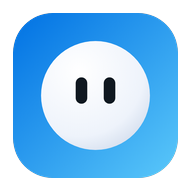
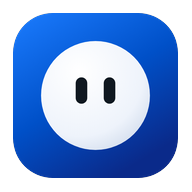
Degradê oficial do site aplicado em todo o sistema e nos ícones
Claude-Session: https://claude.ai/code/session_016C7VowmAPoLn4t7SCgqGfB

diff --git a/frontend/src/apple-theme.css b/frontend/src/apple-theme.css
@@ -32,7 +32,7 @@
   --radius: 14px;
   --radius-lg: 22px;
 
-  --gradient-brand: linear-gradient(180deg, #1a82f7 0%, #0071e3 100%);
+  --gradient-brand: linear-gradient(160deg,#1b7cff,#0050c8 55%,#0a2a8a);
   --glow-brand: 0 0 0 4px rgba(0, 113, 227, 0.18);
 
   /* Liquid Glass */
@@ -561,9 +561,9 @@ input, select, textarea { font-family: var(--font-body); }
   --helora-g1: #0071e3;
   --helora-g2: #5ac8fa;
   --helora-g3: #34c759;
-  --helora-gradient: linear-gradient(90deg, #0071e3 0%, #5ac8fa 55%, #34c759 100%);
+  --helora-gradient: linear-gradient(160deg,#1b7cff,#0050c8 55%,#0a2a8a);
   --helora-gradient-soft: linear-gradient(90deg, rgba(0,113,227,.12), rgba(90,200,250,.12), rgba(52,199,89,.12));
-  --helora-bubble: linear-gradient(135deg, #0071e3 0%, #2b8ff0 100%);
+  --helora-bubble: linear-gradient(160deg,#1b7cff,#0050c8 55%,#0a2a8a);
 }
 .nav-sidebar-brand { position: relative; padding-bottom: 14px !important; margin-bottom: 12px !important; }
 .nav-sidebar-brand::after {
@@ -842,7 +842,7 @@ input, select, textarea { font-family: var(--font-body); }
 .login2-foot { margin-top: 28px; font-size: 12px; color: #86868b; }
 .login2-right {
   position: relative; overflow: hidden; display: flex; align-items: center; justify-content: center; padding: 48px;
-  background: linear-gradient(135deg, #0062c4 0%, #0071e3 35%, #3aa8f2 70%, #34c759 130%); color: #fff;
+  background: linear-gradient(160deg,#1b7cff,#0050c8 55%,#0a2a8a); color: #fff;
 }
 .login2-glow { position: absolute; border-radius: 50%; filter: blur(60px); opacity: .55; }
 .login2-glow.g1 { width: 420px; height: 420px; background: #5ac8fa; top: -120px; right: -100px; }
@@ -915,7 +915,7 @@ input, select, textarea { font-family: var(--font-body); }
 /* Relatórios / Financeiro / Planos / Termos */
 .rep-bars { display: flex; align-items: flex-end; gap: 4px; height: 160px; padding-top: 8px; overflow-x: auto; }
 .rep-bar { flex: 1 0 14px; height: 100%; display: flex; flex-direction: column; justify-content: flex-end; align-items: center; gap: 4px; }
-.rep-bar span { width: 100%; min-height: 2px; border-radius: 6px 6px 2px 2px; background: linear-gradient(180deg, #5ac8fa, #0071e3); }
+.rep-bar span { width: 100%; min-height: 2px; border-radius: 6px 6px 2px 2px; background: linear-gradient(160deg,#1b7cff,#0050c8 55%,#0a2a8a); }
 .rep-bar small { font-size: 10px; color: #86868b; }
 .rep-table-wrap { overflow-x: auto; margin-top: 10px; }
 .rep-table { width: 100%; border-collapse: collapse; font-size: 13.5px; }
@@ -1070,7 +1070,7 @@ input, select, textarea { font-family: var(--font-body); }
 .ap-list-row + .ap-list-row::before { content: ""; position: absolute; top: 0; left: 70px; right: 0; height: .5px; background: rgba(0,0,0,.08); }
 .ap-list-row:hover { background: #fafafc; }
 .ap-avatar { width: 40px; height: 40px; border-radius: 11px; display: inline-flex; align-items: center; justify-content: center; font-weight: 700; font-size: 15px; color: #fff; flex: 0 0 auto;
-  background: linear-gradient(135deg, #0071e3, #5ac8fa); }
+  background: linear-gradient(160deg,#1b7cff,#0050c8 55%,#0a2a8a); }
 .ap-list-main { flex: 1; min-width: 0; }
 .ap-list-main strong { display: block; font-size: 15px; color: #1d1d1f; font-weight: 600; white-space: nowrap; overflow: hidden; text-overflow: ellipsis; }
 .ap-list-main span { display: block; font-size: 13px; color: #86868b; margin-top: 2px; white-space: nowrap; overflow: hidden; text-overflow: ellipsis; }
@@ -1723,7 +1723,7 @@ img, video { max-width: 100%; }
 .lp-owner strong { font-size: 13.5px; color: var(--text-main); }
 .lp-owner small { font-size: 11.5px; }
 .lp-owner select { position: absolute; inset: 0; opacity: 0; cursor: pointer; }
-.lp-av { width: 32px; height: 32px; border-radius: 50%; background: linear-gradient(135deg,#5ac8fa,#0071e3); color: #fff !important; display: grid !important; place-items: center; font-size: 12px; font-weight: 700; }
+.lp-av { width: 32px; height: 32px; border-radius: 50%; background: linear-gradient(160deg,#1b7cff,#0050c8 55%,#0a2a8a); color: #fff !important; display: grid !important; place-items: center; font-size: 12px; font-weight: 700; }
 .lp-btn { display: inline-flex; align-items: center; gap: 6px; height: 36px; padding: 0 16px; border-radius: 10px; border: 0; font: inherit; font-size: 14px; font-weight: 600; cursor: pointer; background: rgba(118,118,128,.12); color: var(--text-main); }
 .lp-btn.won { background: #28a745; color: #fff; }
 .lp-btn.won:hover { background: #218838; }
@@ -2030,7 +2030,7 @@ img, video { max-width: 100%; }
 .crm-side-list { display: flex; flex-direction: column; gap: 8px; margin-top: 14px; }
 .crm-side-row { display: flex; align-items: center; gap: 12px; padding: 12px 14px; background: #fff; border-radius: 16px; box-shadow: 0 0 0 .5px rgba(0,0,0,.06), 0 2px 8px rgba(0,0,0,.04); cursor: pointer; }
 .crm-side-row:hover { box-shadow: 0 0 0 .5px rgba(0,113,227,.3), 0 4px 14px rgba(0,0,0,.06); }
-.crm-side-av { width: 36px; height: 36px; border-radius: 50%; display: grid; place-items: center; background: linear-gradient(135deg, #0071e3, #5ac8fa); color: #fff; font-size: 13px; font-weight: 700; flex-shrink: 0; }
+.crm-side-av { width: 36px; height: 36px; border-radius: 50%; display: grid; place-items: center; background: linear-gradient(160deg,#1b7cff,#0050c8 55%,#0a2a8a); color: #fff; font-size: 13px; font-weight: 700; flex-shrink: 0; }
 .crm-side-main { flex: 1; min-width: 0; display: flex; flex-direction: column; }
 .crm-side-main strong { font-size: 14.5px; }
 .crm-side-main span { font-size: 12.5px; color: #6e6e73; overflow: hidden; text-overflow: ellipsis; white-space: nowrap; }
@@ -2080,7 +2080,7 @@ button.crm-doc-tag.ok { cursor: pointer; }
 .au-rule { background: #fff; border-radius: 18px; box-shadow: 0 0 0 .5px rgba(0,0,0,.07), 0 2px 10px rgba(0,0,0,.04); overflow: hidden; }
 .au-rule.off { opacity: .6; }
 .au-head { display: flex; align-items: center; gap: 12px; padding: 14px 16px; cursor: pointer; }
-.au-ico { width: 34px; height: 34px; border-radius: 11px; display: grid; place-items: center; background: linear-gradient(135deg, #0071e3, #5ac8fa); color: #fff; flex-shrink: 0; }
+.au-ico { width: 34px; height: 34px; border-radius: 11px; display: grid; place-items: center; background: linear-gradient(160deg,#1b7cff,#0050c8 55%,#0a2a8a); color: #fff; flex-shrink: 0; }
 .au-title { flex: 1; min-width: 0; display: flex; flex-direction: column; }
 .au-title strong { font-size: 15px; }
 .au-title small { font-size: 12.5px; color: #6e6e73; overflow: hidden; text-overflow: ellipsis; white-space: nowrap; }
@@ -2113,7 +2113,7 @@ button.crm-doc-tag.ok { cursor: pointer; }
 /* V9 · Dashboard moderno (layout em blocos, cores do Helora) */
 .db-bento { display: grid; grid-template-columns: 1fr 1fr 1fr 1.6fr; gap: 14px; margin: 14px 0; }
 .db-hero { border-radius: 22px; padding: 18px; display: flex; flex-direction: column; gap: 6px; min-height: 140px; justify-content: space-between; }
-.db-hero.blue { background: linear-gradient(135deg, #0071e3, #5ac8fa); color: #fff; box-shadow: 0 10px 30px rgba(0,113,227,.25); }
+.db-hero.blue { background: linear-gradient(160deg,#1b7cff,#0050c8 55%,#0a2a8a); color: #fff; box-shadow: 0 10px 30px rgba(0,113,227,.25); }
 .db-hero.light { background: linear-gradient(135deg, #e8f5ec, #d6f5e0); color: #145c2c; }
 .db-hero-top { display: inline-flex; align-items: center; gap: 6px; font-size: 13px; font-weight: 600; opacity: .9; }
 .db-hero-val { font-size: 38px; font-weight: 800; letter-spacing: -.03em; line-height: 1; }
@@ -2136,11 +2136,11 @@ button.crm-doc-tag.ok { cursor: pointer; }
 .db-ch-head { display: flex; align-items: center; gap: 8px; font-size: 14px; }
 .db-ch-head strong { margin-left: auto; }
 .db-ch-bar { height: 8px; border-radius: 999px; background: rgba(118,118,128,.12); overflow: hidden; margin-top: 6px; }
-.db-ch-bar span { display: block; height: 100%; border-radius: 999px; background: linear-gradient(90deg, #0071e3, #5ac8fa); }
+.db-ch-bar span { display: block; height: 100%; border-radius: 999px; background: linear-gradient(160deg,#1b7cff,#0050c8 55%,#0a2a8a); }
 .db-table { width: 100%; border-collapse: collapse; font-size: 13.5px; }
 .db-table th { text-align: left; font-size: 11.5px; font-weight: 600; color: #8e8e93; text-transform: uppercase; letter-spacing: .04em; padding: 6px 8px; }
 .db-table td { padding: 9px 8px; border-top: .5px solid rgba(0,0,0,.06); vertical-align: middle; }
-.db-av { display: inline-grid; place-items: center; width: 26px; height: 26px; border-radius: 50%; background: linear-gradient(135deg, #0071e3, #5ac8fa); color: #fff; font-size: 10.5px; font-weight: 700; margin-right: 8px; vertical-align: middle; }
+.db-av { display: inline-grid; place-items: center; width: 26px; height: 26px; border-radius: 50%; background: linear-gradient(160deg,#1b7cff,#0050c8 55%,#0a2a8a); color: #fff; font-size: 10.5px; font-weight: 700; margin-right: 8px; vertical-align: middle; }
 @media (max-width: 1100px) { .db-bento { grid-template-columns: 1fr 1fr; } .db-minis { grid-template-columns: repeat(3, minmax(0, 1fr)); } }
 @media (max-width: 720px) { .db-grid2 { grid-template-columns: 1fr; } .db-minis { grid-template-columns: repeat(2, minmax(0, 1fr)); } .db-hero-val { font-size: 30px; } }
 
@@ -2259,7 +2259,7 @@ a.lp-icon { display: inline-grid; place-items: center; color: inherit; text-deco
 .cx-hero { display: flex; gap: 14px; align-items: center; background: #fff; border-radius: 22px; padding: 18px 20px; box-shadow: 0 0 0 .5px rgba(0,0,0,.06), 0 4px 18px rgba(0,0,0,.05); margin-bottom: 14px; }
 .cx-hero h2 { margin: 0 0 2px; font-size: 20px; letter-spacing: -.02em; }
 .cx-hero p { margin: 0; color: #6e6e73; font-size: 14px; }
-.cx-hero-ico { width: 48px; height: 48px; border-radius: 15px; display: grid; place-items: center; color: #fff; background: linear-gradient(135deg, #0071e3, #5ac8fa); flex-shrink: 0; }
+.cx-hero-ico { width: 48px; height: 48px; border-radius: 15px; display: grid; place-items: center; color: #fff; background: linear-gradient(160deg,#1b7cff,#0050c8 55%,#0a2a8a); flex-shrink: 0; }
 .cx-active { display: inline-flex; gap: 6px; font-size: 13px; color: #1d1d1f; background: rgba(52,199,89,.12); padding: 6px 12px; border-radius: 999px; margin-bottom: 6px; }
 .cx-h3 { font-size: 13px; font-weight: 700; color: #6e6e73; text-transform: uppercase; letter-spacing: .05em; margin: 18px 0 10px; }
 .cx-grid { display: grid; grid-template-columns: repeat(auto-fill, minmax(300px, 1fr)); gap: 14px; }
@@ -2303,7 +2303,7 @@ a.lp-icon { display: inline-grid; place-items: center; color: inherit; text-deco
 .ih-title h2 { margin: 0; font-size: 21px; letter-spacing: -.02em; }
 .ih-title p { margin: 2px 0 0; color: #6e6e73; font-size: 14px; }
 .ih-orb { width: 44px; height: 44px; border-radius: 50%; display: grid; place-items: center; color: #fff; flex-shrink: 0;
-  background: radial-gradient(circle at 30% 25%, #9be7ff, transparent 45%), linear-gradient(135deg, #0071e3, #5ac8fa 60%, #34c759); box-shadow: 0 6px 18px rgba(0,113,227,.3); }
+  background: radial-gradient(circle at 30% 25%, #9be7ff, transparent 45%), linear-gradient(160deg,#1b7cff,#0050c8 55%,#0a2a8a); box-shadow: 0 6px 18px rgba(0,113,227,.3); }
 .ih-orb.big { width: 64px; height: 64px; }
 .ih-tabs { display: inline-flex; background: rgba(118,118,128,.1); border-radius: 12px; padding: 3px; gap: 2px; }
 .ih-tabs button { border: 0; background: transparent; padding: 7px 14px; border-radius: 9px; font: inherit; font-size: 14px; font-weight: 600; color: #3a3a3c; display: inline-flex; gap: 6px; align-items: center; cursor: pointer; }
@@ -2330,7 +2330,7 @@ a.lp-icon { display: inline-grid; place-items: center; color: inherit; text-deco
 .ih-ideas button:hover { background: #eef5ff; }
 .ih-msg { display: flex; gap: 10px; align-items: flex-start; }
 .ih-msg.user { justify-content: flex-end; }
-.ih-av { width: 28px; height: 28px; border-radius: 50%; display: grid; place-items: center; color: #fff; background: linear-gradient(135deg, #0071e3, #5ac8fa); flex-shrink: 0; }
+.ih-av { width: 28px; height: 28px; border-radius: 50%; display: grid; place-items: center; color: #fff; background: linear-gradient(160deg,#1b7cff,#0050c8 55%,#0a2a8a); flex-shrink: 0; }
 .ih-bubble { max-width: min(760px, 85%); }
 .ih-msg.user .ih-bubble { background: #0071e3; color: #fff; padding: 10px 14px; border-radius: 18px 18px 4px 18px; font-size: 14.5px; }
 .ih-msg.assistant .ih-bubble { background: #f5f6f8; padding: 12px 15px; border-radius: 4px 18px 18px 18px; font-size: 14.5px; line-height: 1.55; }
@@ -2364,7 +2364,7 @@ a.lp-icon { display: inline-grid; place-items: center; color: inherit; text-deco
 .ih-ch-name strong { display: block; font-size: 14px; }
 .ih-ch-name small { color: #8e8e93; font-size: 12px; }
 .ih-ch select { border: 0; background: rgba(118,118,128,.1); border-radius: 10px; padding: 8px 10px; font: inherit; font-size: 13.5px; max-width: 260px; }
-.ih-live { font-size: 11.5px; font-weight: 700; color: #fff; background: linear-gradient(90deg, #0071e3, #34c759); padding: 4px 10px; border-radius: 999px; white-space: nowrap; }
+.ih-live { font-size: 11.5px; font-weight: 700; color: #fff; background: linear-gradient(160deg,#1b7cff,#0050c8 55%,#0a2a8a); padding: 4px 10px; border-radius: 999px; white-space: nowrap; }
 .ih-att-grid { display: grid; grid-template-columns: repeat(auto-fill, minmax(240px, 1fr)); gap: 12px; }
 .ih-att-card { border-radius: 16px; padding: 14px; background: #f8f9fb; cursor: pointer; display: flex; flex-direction: column; gap: 6px; transition: transform .15s, box-shadow .15s; }
 .ih-att-card:hover { transform: translateY(-2px); box-shadow: 0 8px 22px rgba(0,0,0,.07); background: #fff; }
@@ -2451,7 +2451,7 @@ a.lp-icon { display: inline-grid; place-items: center; color: inherit; text-deco
 .bubble-buttons-foot { color: var(--text-muted, #8e8e93); font-size: 11px; }
 /* ===================== V14 · Tela inicial ===================== */
 .home2 { max-width: 1180px; margin: 0 auto; }
-.home2-hero { display: flex; align-items: center; gap: 16px; padding: 22px 24px; border-radius: 18px; background: linear-gradient(120deg, #0a2a5e, #0071e3 70%, #3a9bff); color: #fff; box-shadow: 0 10px 30px rgba(0,60,140,.18); }
+.home2-hero { display: flex; align-items: center; gap: 16px; padding: 22px 24px; border-radius: 18px; background: linear-gradient(160deg,#1b7cff,#0050c8 55%,#0a2a8a); color: #fff; box-shadow: 0 10px 30px rgba(0,60,140,.18); }
 .home2-hero h2 { margin: 0; font-size: 22px; color: #fff; }
 .home2-hero p { margin: 2px 0 0; opacity: .85; font-size: 13px; }
 .home2-hero .avatar-circle { background: rgba(255,255,255,.2); color: #fff; border: 2px solid rgba(255,255,255,.35); }
@@ -2922,7 +2922,7 @@ a.ih-src:hover { border-color: #0071e3; background: rgba(0,113,227,.05); }
 .qr-pop { flex-shrink: 0 !important; min-height: 120px; max-height: 360px !important; margin: 4px 0 10px !important; }
 .qr-item { padding: 10px 14px !important; gap: 4px !important; }
 .qr-item span { -webkit-line-clamp: 4 !important; font-size: 13px !important; line-height: 1.4; }
-.avatar-circle.av-group { background: linear-gradient(135deg, #5ac8fa, #0071e3) !important; color: #fff; display: grid; place-items: center; }
+.avatar-circle.av-group { background: linear-gradient(160deg,#1b7cff,#0050c8 55%,#0a2a8a) !important; color: #fff; display: grid; place-items: center; }
 .tb-newcol { flex: 0 0 220px; align-self: flex-start; display: inline-flex; align-items: center; justify-content: center; gap: 6px; padding: 14px; border-radius: 14px; border: 1.5px dashed rgba(0,113,227,.4); background: rgba(0,113,227,.03); color: #0071e3; font-weight: 600; font-size: 14px; cursor: pointer; font-family: inherit; }
 .tb-col-tools { margin-left: auto; display: inline-flex; gap: 2px; opacity: 0; transition: opacity .15s; }
 .tb-col:hover .tb-col-tools { opacity: 1; }
@@ -2984,7 +2984,7 @@ a.ih-src:hover { border-color: #0071e3; background: rgba(0,113,227,.05); }
 .ih-usage-t span { font-size: 14px; color: #3a3a3c; margin-right: auto; }
 .ih-usage small { color: #86868b; font-size: 12.5px; }
 .ih-usage-bar { height: 8px; border-radius: 99px; background: rgba(0,0,0,.06); overflow: hidden; }
-.ih-usage-bar i { display: block; height: 100%; border-radius: 99px; background: linear-gradient(90deg, #0071e3, #5ac8fa); transition: width .4s; }
+.ih-usage-bar i { display: block; height: 100%; border-radius: 99px; background: linear-gradient(160deg,#1b7cff,#0050c8 55%,#0a2a8a); transition: width .4s; }
 .ih-usage.warn .ih-usage-bar i { background: linear-gradient(90deg, #ff9500, #ffcc00); }
 .ih-usage.bad .ih-usage-bar i { background: #ff3b30; }
 .ih-usage-msg { font-size: 13px; color: #c93400; background: rgba(255,59,48,.08); padding: 8px 10px; border-radius: 10px; }
@@ -3048,7 +3048,7 @@ a.ih-src:hover { border-color: #0071e3; background: rgba(0,113,227,.05); }
 .help-n{width:26px;height:26px;border-radius:8px;background:#eaf3ff;color:#0071e3;display:grid;place-items:center;font-size:13px;font-weight:700;flex:none}
 .help-steps{list-style:none;padding:0;margin:0;display:flex;flex-direction:column;gap:10px}
 .help-steps li{display:flex;gap:10px;font-size:14px;line-height:1.4;background:#fff;border-radius:12px;padding:12px;border:1px solid #eee}
-.help-steps li span{width:24px;height:24px;border-radius:50%;background:linear-gradient(135deg,#0071e3,#3d8bf0);color:#fff;display:grid;place-items:center;font-size:12px;font-weight:700;flex:none}
+.help-steps li span{width:24px;height:24px;border-radius:50%;background:linear-gradient(160deg,#1b7cff,#0050c8 55%,#0a2a8a);color:#fff;display:grid;place-items:center;font-size:12px;font-weight:700;flex:none}
 .help-tip{background:#fff8e6;border-radius:12px;padding:12px;font-size:13px;color:#7a5600}
 .help-chat{margin:0 14px 14px;display:flex;align-items:center;justify-content:center;gap:8px;padding:12px;border:0;border-radius:14px;background:#0071e3;color:#fff;font-weight:600;font-size:14px;cursor:pointer}
 
@@ -3207,7 +3207,7 @@ a.ih-src:hover { border-color: #0071e3; background: rgba(0,113,227,.05); }
 .sp-d{font-size:12px;color:#8e8e93}.sp-d.up{color:#1f9d4a}.sp-d.down{color:#d70015}
 .sp-grid{display:grid;grid-template-columns:1fr 1fr;gap:14px}.sp-grid span{display:block;font-size:12px;color:#8e8e93}
 .sp-bars{display:flex;align-items:flex-end;gap:2px;height:110px;margin-top:16px;border-bottom:1px solid #e5e5ea}
-.sp-bars i{flex:1;min-height:2px;border-radius:3px 3px 0 0;background:linear-gradient(#3d8bf0,#0071e3)}
+.sp-bars i{flex:1;min-height:2px;border-radius:3px 3px 0 0;background:linear-gradient(160deg,#1b7cff,#0050c8 55%,#0a2a8a)}
 .sp-foot{grid-column:1/-1;font-size:12px;color:#8e8e93;margin:0}
 @media (max-width:900px){.sp{grid-template-columns:1fr}}
 
@@ -3402,10 +3402,10 @@ a.ih-src:hover { border-color: #0071e3; background: rgba(0,113,227,.05); }
 .pl-wrap{position:absolute;inset:0;z-index:60;display:grid;place-items:center;background:rgba(245,247,251,.55);backdrop-filter:blur(8px);-webkit-backdrop-filter:blur(8px);animation:plIn .18s ease;min-height:60vh}
 .pl-box{display:flex;flex-direction:column;align-items:center;gap:14px;position:sticky;top:40vh}
 .pl-ring{width:54px;height:54px;border-radius:50%;background:conic-gradient(from 0deg,rgba(0,113,227,0) 0deg,#3d8bf0 140deg,#0071e3 260deg,#0050b0 360deg);-webkit-mask:radial-gradient(farthest-side,transparent calc(100% - 6px),#000 calc(100% - 5px));mask:radial-gradient(farthest-side,transparent calc(100% - 6px),#000 calc(100% - 5px));animation:plSpin .8s linear infinite;filter:drop-shadow(0 6px 14px rgba(0,113,227,.35))}
-.pl-t{font-size:13px;font-weight:700;letter-spacing:.14em;text-transform:uppercase;background:linear-gradient(90deg,#0050b0,#3d8bf0);-webkit-background-clip:text;background-clip:text;color:transparent}
+.pl-t{font-size:13px;font-weight:700;letter-spacing:.14em;text-transform:uppercase;background:linear-gradient(160deg,#1b7cff,#0050c8 55%,#0a2a8a);-webkit-background-clip:text;background-clip:text;color:transparent}
 @keyframes plSpin{to{transform:rotate(360deg)}}
 @keyframes plIn{from{opacity:0}to{opacity:1}}
-.pl-bar{position:fixed;top:0;left:0;height:3px;z-index:3000;background:linear-gradient(90deg,#0050b0,#0071e3,#3d8bf0);box-shadow:0 0 10px rgba(0,113,227,.6);border-radius:0 3px 3px 0;transition:width .25s ease,opacity .25s ease .1s;pointer-events:none}
+.pl-bar{position:fixed;top:0;left:0;height:3px;z-index:3000;background:linear-gradient(160deg,#1b7cff,#0050c8 55%,#0a2a8a);box-shadow:0 0 10px rgba(0,113,227,.6);border-radius:0 3px 3px 0;transition:width .25s ease,opacity .25s ease .1s;pointer-events:none}
 .pl-wrap{display:none !important}
 
 .gd-login{display:flex;flex-direction:column;align-items:center;gap:12px;padding:26px 10px;text-align:center}
@@ -3458,7 +3458,7 @@ a.ih-src:hover { border-color: #0071e3; background: rgba(0,113,227,.05); }
 
 /* Login animado: cenas em ciclo */
 .la-root { transition: background 1.2s ease; background-size: 200% 200% !important; animation: laBg 18s ease-in-out infinite; }
-.la-root.la-s1 { background: linear-gradient(135deg, #0a3d91 0%, #0062c4 40%, #0a84ff 75%, #2fd0a8 130%); }
+.la-root.la-s1 { background: linear-gradient(160deg,#1b7cff,#0050c8 55%,#0a2a8a); }
 @keyframes laBg { 0%,100% { background-position: 0% 50%; } 50% { background-position: 100% 50%; } }
 .la-grid { position: absolute; inset: 0; pointer-events: none; opacity: .35;
   background: radial-gradient(circle at 30% 120%, transparent 38%, rgba(255,255,255,.35) 38.2%, transparent 38.5%),

diff --git a/frontend/src/components/HeloraMascot.jsx b/frontend/src/components/HeloraMascot.jsx
@@ -31,7 +31,7 @@ export default function HeloraMascot({ size = 32, tile = true }) {
   return (
     <svg ref={ref} className="helora-mascot" width={size} height={size} viewBox="0 0 200 200" aria-label="Helora">
       <defs>
-        <linearGradient id="hmT" x1="0" y1="0" x2="1" y2="1"><stop offset="0" stopColor="#0071e3" /><stop offset="1" stopColor="#5ac8fa" /></linearGradient>
+        <linearGradient id="hmT" x1="0" y1="0" x2=".6" y2="1"><stop offset="0" stopColor="#1b7cff" /><stop offset=".55" stopColor="#0050c8" /><stop offset="1" stopColor="#0a2a8a" /></linearGradient>
         <radialGradient id="hmB" cx=".35" cy=".28" r=".85"><stop offset="0" stopColor="#fff" /><stop offset=".7" stopColor="#eef3fb" /><stop offset="1" stopColor="#cfdaeb" /></radialGradient>
       </defs>
       {tile && <rect width="200" height="200" rx="48" fill="url(#hmT)" />}
